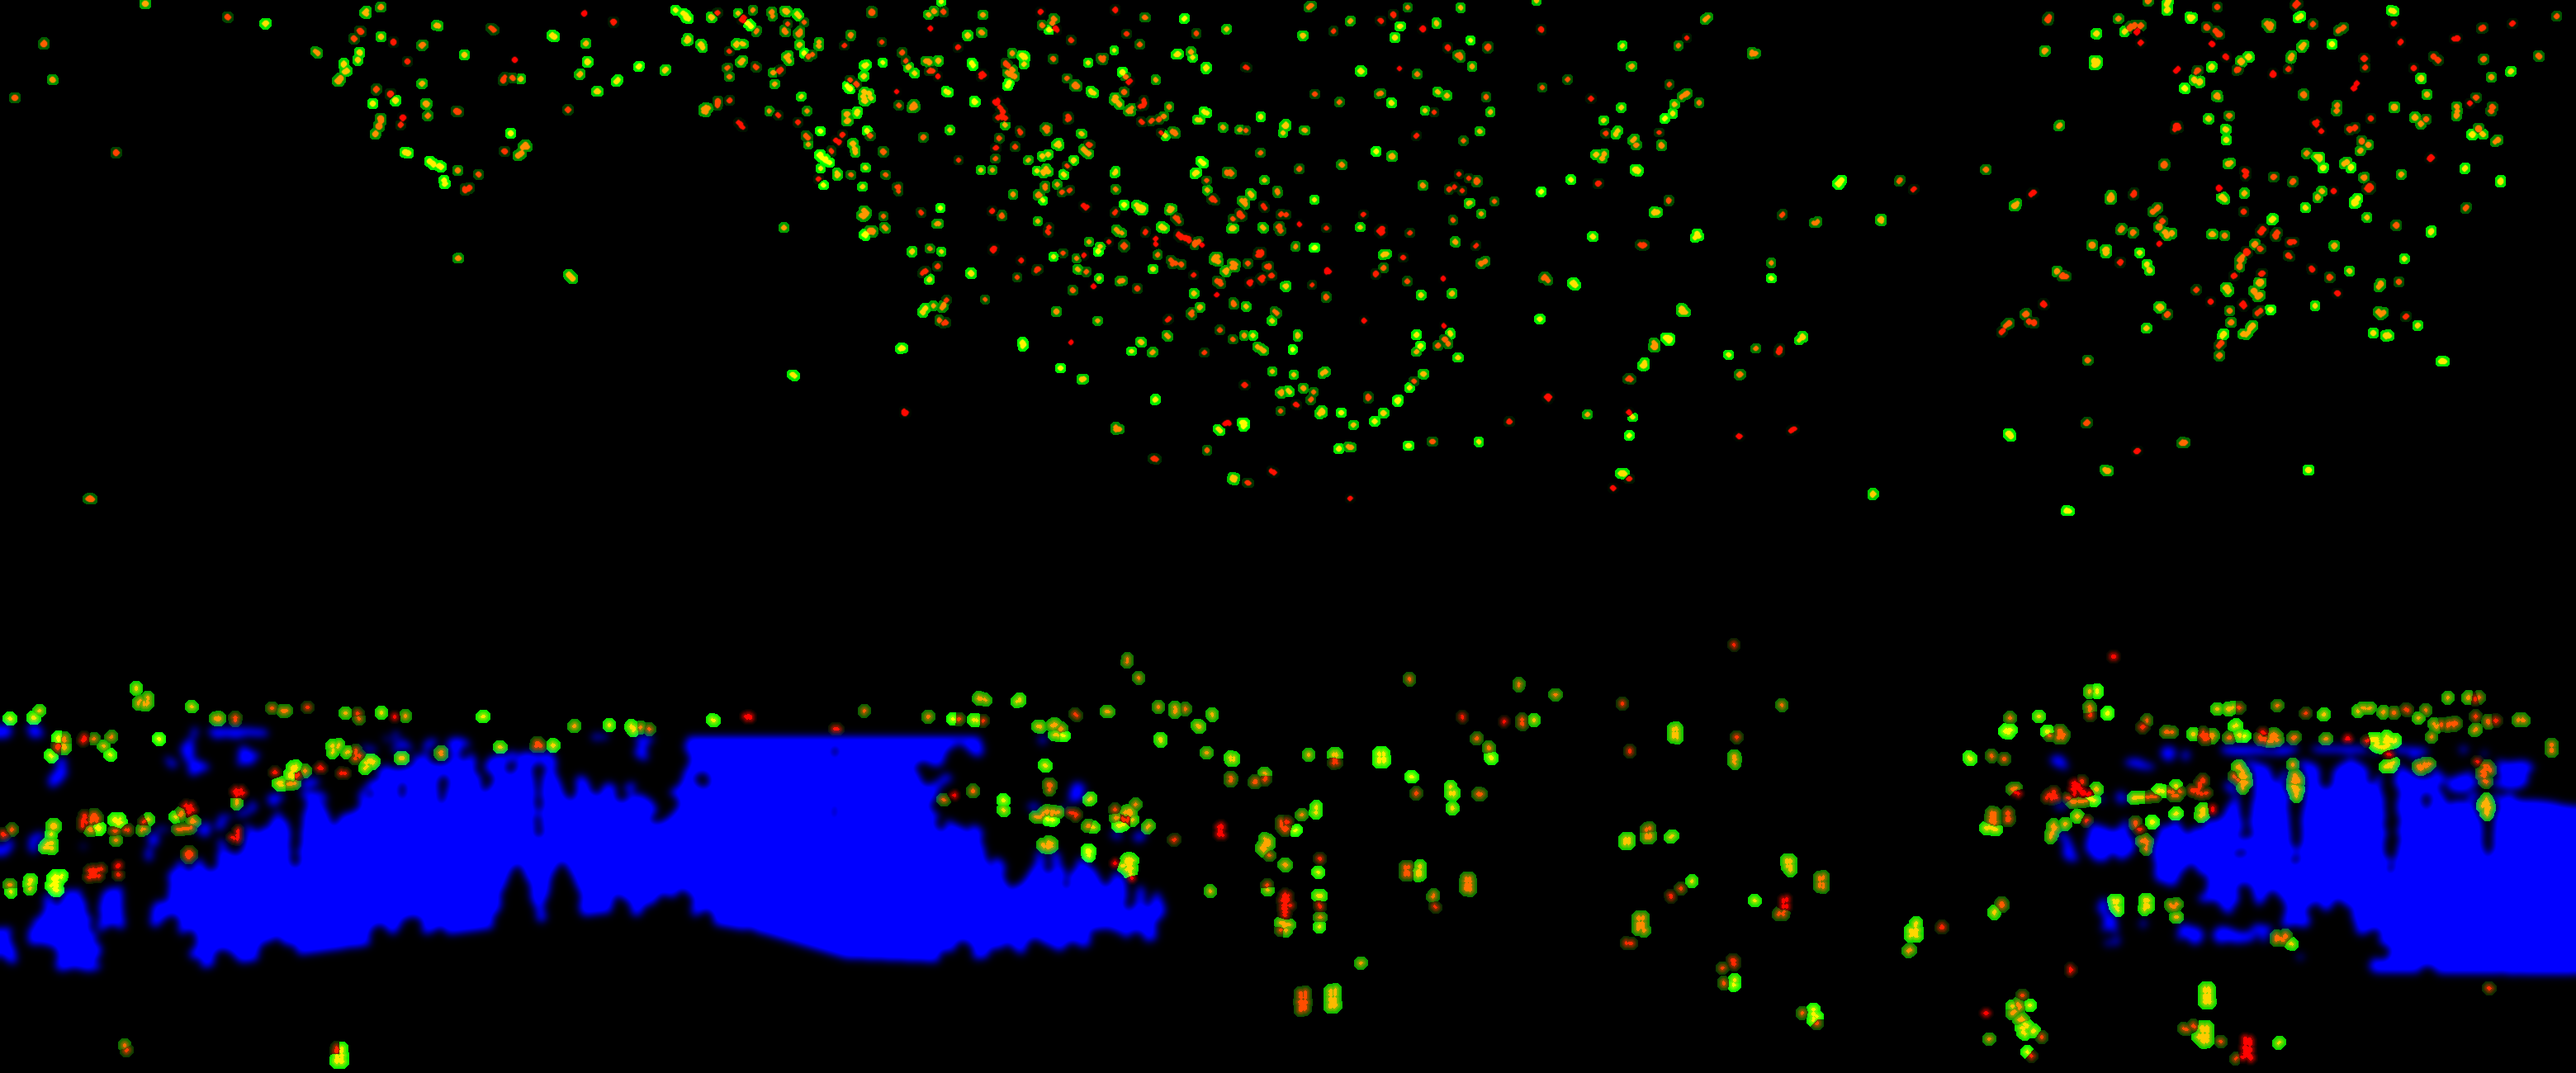
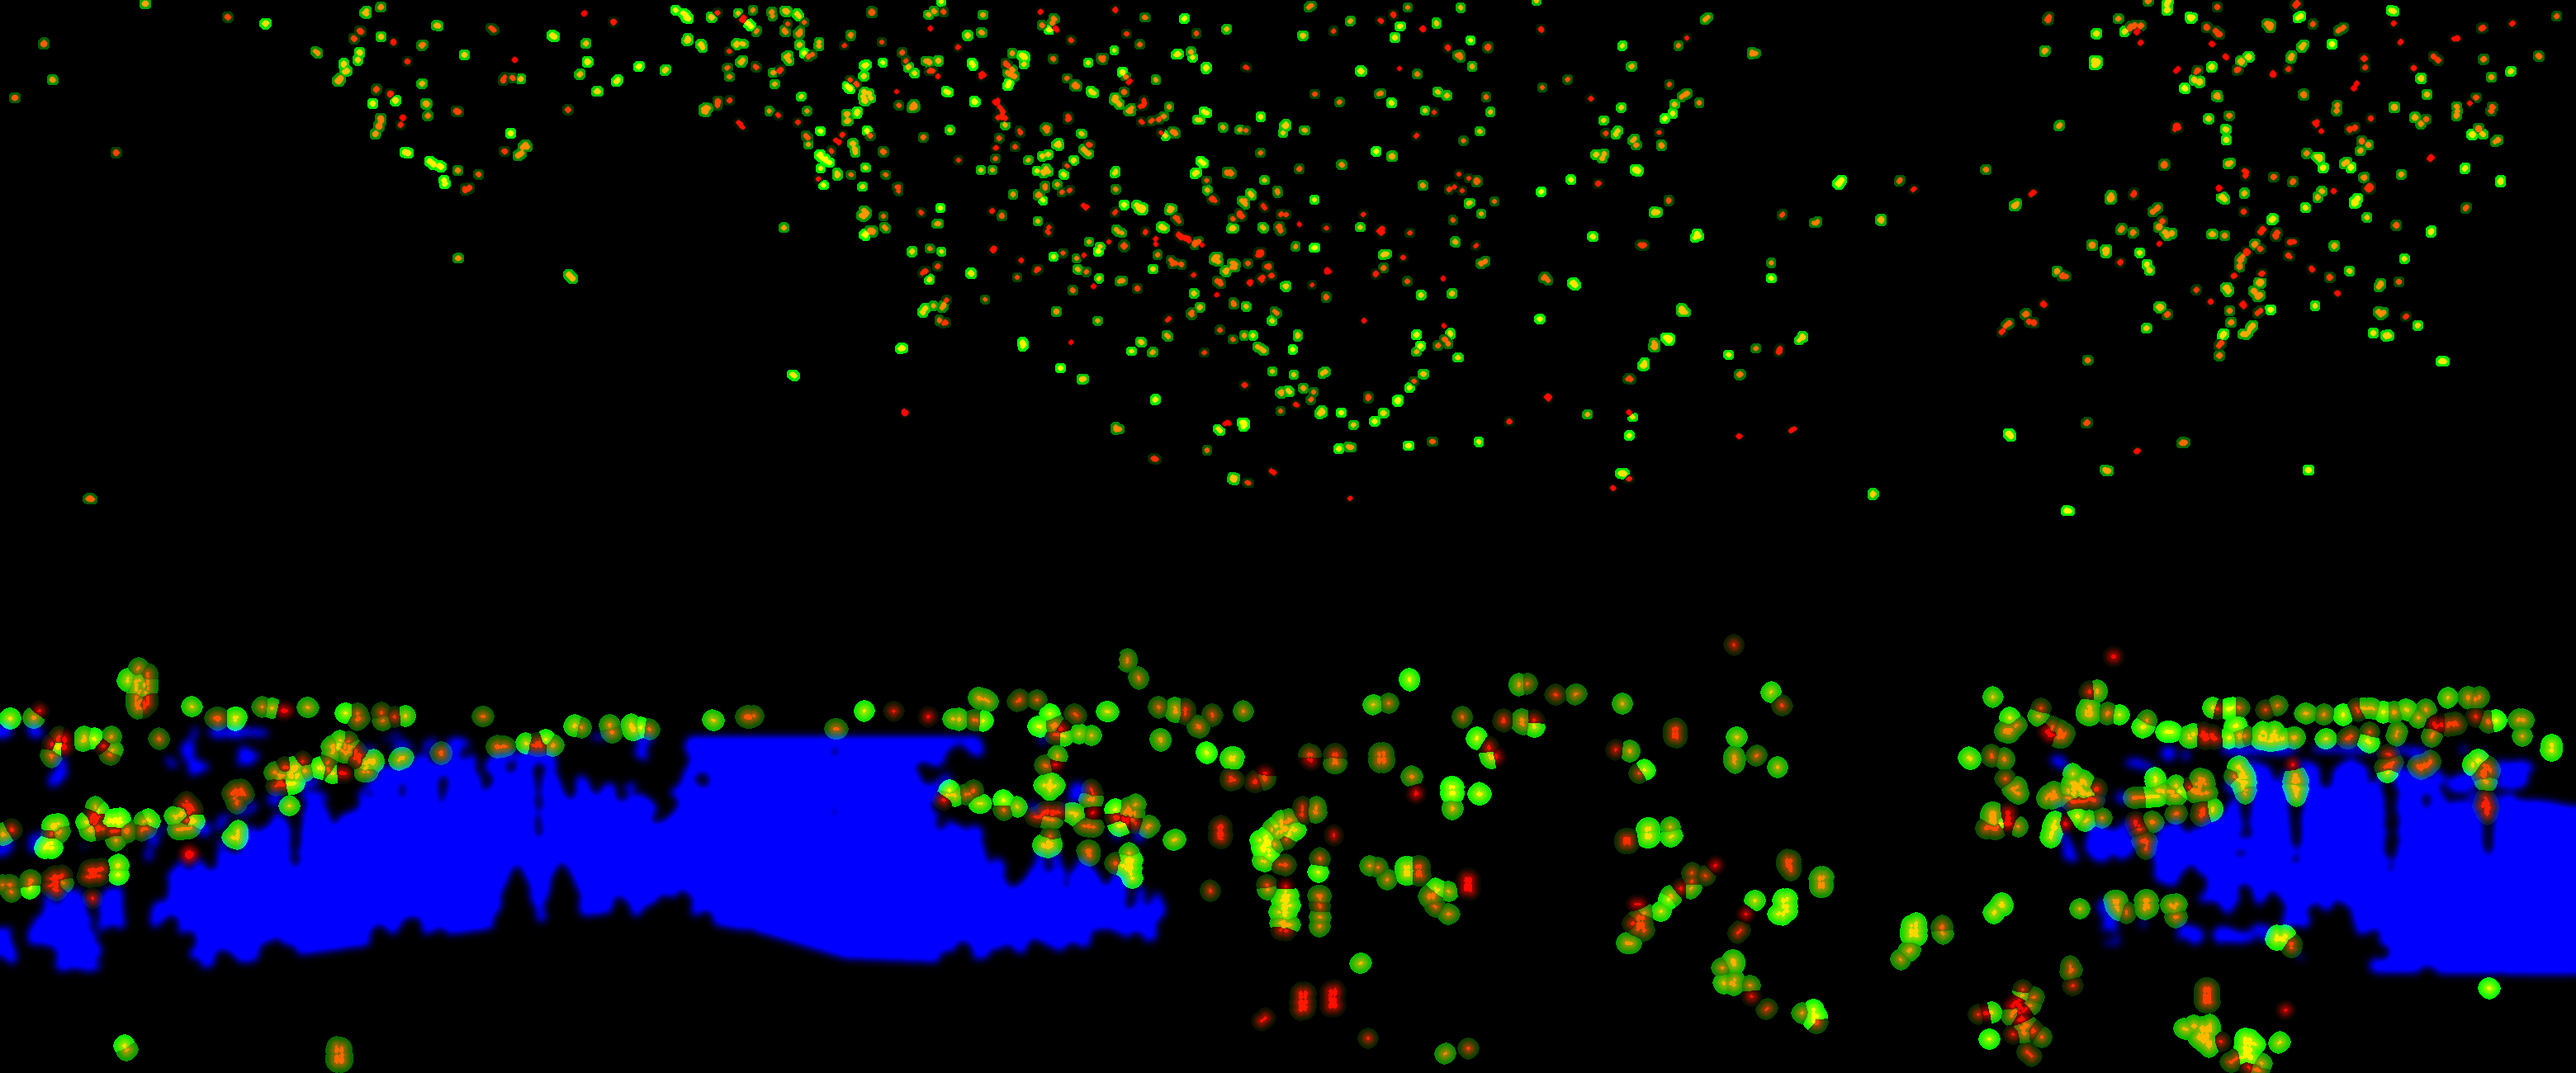
Filmvalet: stadens ljus mycket tydligare — fler fönster och gatljus, varmt sken runt vart och ett, starkare fladder, tänds och släcks oftare
Rickard: "mycket tydligare ljussken glimmrande och av och på släckande fönster och ljus runt om i staden".
540 ljus (förut 366), skenet ~13 px, fladder 15–35 %, varje ljus i egen takt (10–26 s), ungefär varannan period
släckt 1,5–6 s med mjuk släckning och ibland ett flimmer när det tänds. Byggnaderna står fortfarande still.

diff --git a/public/index.html b/public/index.html
@@ -1614,7 +1614,7 @@
   // Ingenting läggs ovanpå målningarna. Bilden ritas som textur i en fragment-shader som
   // ändrar pixlarna själva (Rickard 2026-09-23). En mask per målning, uppmätt i förväg:
   //   R = stjärna eller ljus (mjuk kant), G = dess fas, B = vatten.
-  //   filmvalet: omslag/valj-glimt.png?v=8003078f ur verktyg/hitta-valj.py (stjärnor, fönster och gatljus, floden),
+  //   filmvalet: omslag/valj-glimt.png?v=315b4c59 ur verktyg/hitta-valj.py (stjärnor, fönster och gatljus, floden),
   //              och omslag/valj-himmel.png?v=78893dc6 (staden som står still, molnen, himlen bakom tornen)
   // - Stjärnor glimrar: överskottet över omgivningen (en suddig mipnivå) skalas mellan 25 och
   //   170 procent, var och en i sin egen takt, och i toppen sprids ljuset ut i ett litet sken
@@ -1712,20 +1712,25 @@
         c *= 1. + m.b * smoothstep(.3, .65, l) * (skimmer - .5) * .6;
       }
       if (m.r > .004 && stad > .5) {
-        // Fönster och gatljus (Rickard 2026-09-26: "ljusen som glimmar i fönstren syns inte riktigt"):
-        // varmt ljus som fladdrar lite, som en låga eller en gaslykta, och ett litet varmt sken runt.
-        // Var och en i sin egen takt (var 30–60:e sekund, men bara var tredje gång ungefär) släcks det en stund,
-        // 3–8 s, och tänds igen. Kärnan (R = 1) är fönstret, ringen under .6 är skenet.
-        float takt = 30. + fract(m.g * 13.37) * 30., n = uT / takt + m.g * 5.1, k = floor(n), sek = fract(n) * takt;
-        float slackt = takt * .15 + h1(k + m.g * 91.7) * (takt * .7 - 8.), morkt = 3. + h1(k + 7.3 + m.g * 31.) * 5.;
-        float tant = 1. - step(.7, h1(k + 3.1 + m.g * 57.))
-                   * smoothstep(slackt, slackt + .5, sek) * (1. - smoothstep(slackt + morkt, slackt + morkt + .9, sek));
-        float fl = 1. + (.05 + .12 * fract(m.g * 3.7)) * ((brus(uT * 3.1 + m.g * 40.) * .65 + brus(uT * 8.3 + m.g * 17.) * .35) * 2. - 1.);
-        float karna = smoothstep(.6, .9, m.r), sken = m.r * (1. - karna);
+        // Fönster och gatljus (Rickard 2026-09-26 "syns inte riktigt", 2026-09-27 "mycket tydligare ljussken,
+        // glimmrande och av och på släckande"): varmt ljus som fladdrar som en låga eller gaslykta, ett tydligt
+        // varmt sken runt (masken: kärnan R = 1, skenet ~20 px ut), och var och en släcks och tänds i sin egen
+        // takt: en period på 10–26 s, varannan gång ungefär släckt i 1,5–6 s. Släckningen och tändningen tar
+        // 0,25–0,6 s, ibland med ett litet flimmer när det tänds.
+        float takt = 10. + fract(m.g * 13.37) * 16., n = uT / takt + m.g * 5.1, k = floor(n), sek = fract(n) * takt;
+        float morkt = 1.5 + h1(k + 7.3 + m.g * 31.) * 4.5, slackt = .5 + h1(k + m.g * 91.7) * max(takt - morkt - 1.5, .1);
+        float ut_ = .25 + h1(k + 2.2 + m.g * 11.) * .35;
+        float av = step(.48, h1(k + 3.1 + m.g * 57.)) * smoothstep(slackt, slackt + ut_, sek) * (1. - smoothstep(slackt + morkt, slackt + morkt + ut_, sek));
+        float flimmer = step(slackt + morkt, sek) * (1. - step(slackt + morkt + .5, sek)) * step(.5, brus(uT * 22. + m.g * 9.));
+        float tant = clamp(1. - av - flimmer * .6, 0., 1.);
+        float fl = 1. + (.15 + .2 * fract(m.g * 3.7)) * ((brus(uT * 2.3 + m.g * 40.) * .55 + brus(uT * 6.1 + m.g * 17.) * .3 + brus(uT * 13. + m.g * 5.) * .15) * 2. - 1.);
+        float karna = smoothstep(.6, .9, m.r), sken = m.r * (1. - karna) / .55;
         vec3 omkring = textureLod(uBild, vUv, 4.).rgb;
-        vec3 fonster = mix(omkring * .75 + (c - omkring) * .1, omkring + (c - omkring) * 1.3 * fl + vec3(.07, .045, .01) * fl, tant);
+        vec3 varm = vec3(1., .72, .36);
+        vec3 pa = omkring + (c - omkring) * 1.6 * fl + varm * .16 * fl;
+        vec3 fonster = mix(omkring * .7, pa, tant);
         c = mix(c, fonster, karna);
-        c += vec3(1., .66, .3) * sken * tant * fl * .3;
+        c += varm * pow(sken, 1.6) * tant * fl * .28;
       } else if (m.r > .004) {
         vec3 omkring = textureLod(uBild, vUv, 4.).rgb;
         float g = .5 + .5 * sin(uT * (.7 + fract(m.g * 7.31 + .17) * 1.4) + m.g * 6.2832);
@@ -1814,7 +1819,7 @@
     addEventListener("resize", () => { if (redo) mat(); });
     malningar.push(starta);
   };
-  levandeMalning({ vy: $("vy-valj"), duk: $("valj-levande"), img: $("vy-valj").querySelector(".fond"), mask: "omslag/valj-glimt.png?v=8003078f", himmel: "omslag/valj-himmel.png?v=78893dc6", fastTopp: true });
+  levandeMalning({ vy: $("vy-valj"), duk: $("valj-levande"), img: $("vy-valj").querySelector(".fond"), mask: "omslag/valj-glimt.png?v=315b4c59", himmel: "omslag/valj-himmel.png?v=78893dc6", fastTopp: true });
 
   // ── Startsidans levande scen (Rickard 2026-09-26) ──
   // En natt på ett observatorium som byggs: en stenhuggare klyver ett block med slägga och kilar, en annan

diff --git a/verktyg/hitta-valj.py b/verktyg/hitta-valj.py
@@ -73,8 +73,10 @@ KÄLLA_FRI = 5            # himlen som hamtas bakom tornen ligger minst sa langt
 KOPIA_GAP = 3
 
 # Fonster och gatljus.
-L_VÄRME, L_ÖVER, L_LJUS, L_MAX, L_MIN_YTA = 25.0, 12.0, 70.0, 22, 5
-L_SKEN = 4.0             # skenets radie runt fonstret, px
+# Rickard 2026-09-27: "mycket tydligare ljussken, glimmrande och av och pa slackande fonster och ljus runt om i
+# staden": aven de svagare ljusen raknas, och skenet ar storre (radie ~20 px).
+L_VÄRME, L_ÖVER, L_LJUS, L_MAX, L_MIN_YTA = 24.0, 10.0, 62.0, 22, 4
+L_SKEN = 6.5             # skenets radie runt fonstret, px (gauss)
 
 # Molnen. Galaxen och manen ar ljusa men ar inte moln och star still. Galaxen ar en sned
 # ellips, uppmatt i 1672x1300.
